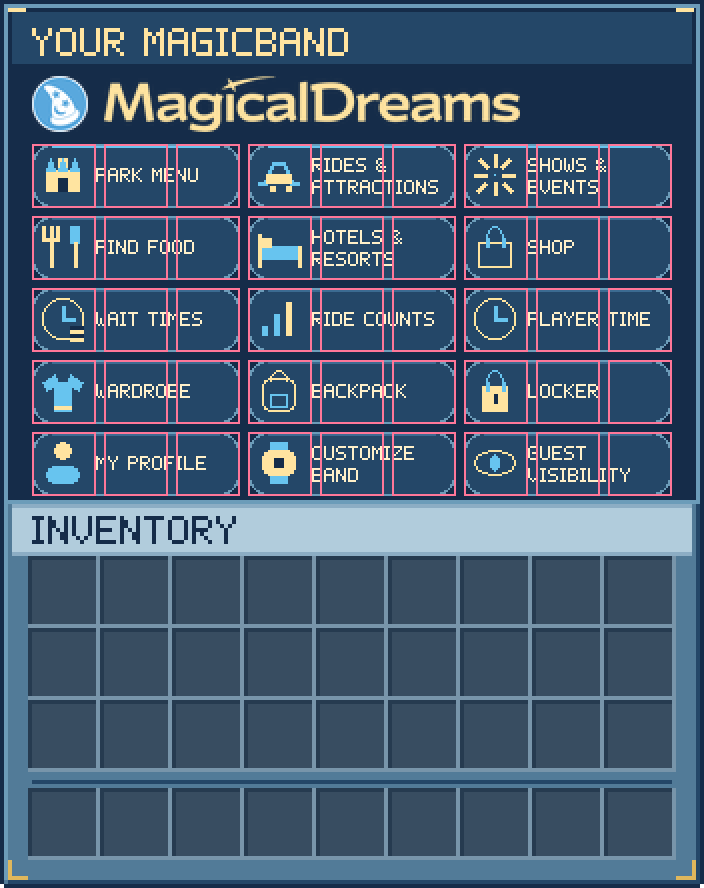
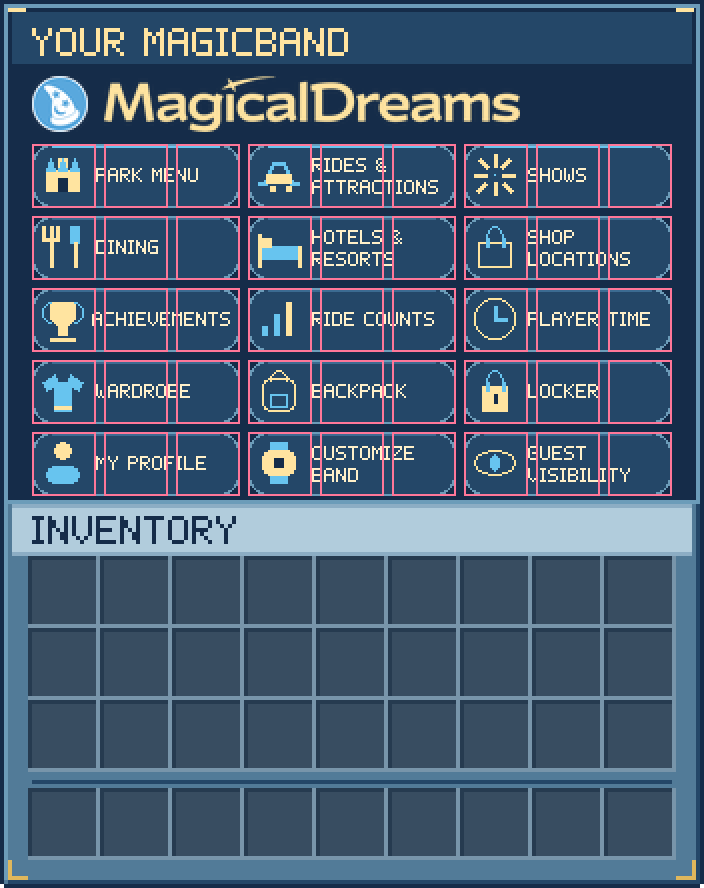
Update MagicBand artwork and require matching v3 menu actions

diff --git a/magicband-ui/draw_magicband.py b/magicband-ui/draw_magicband.py
@@ -9,9 +9,9 @@ from pathlib import Path
 from PIL import Image, ImageDraw
 
 ENTRIES = [
-    ('parks', 'PARK MENU', 13, 9), ('rides', 'RIDES &\nATTRACTIONS', 12, 12), ('shows', 'SHOWS &\nEVENTS', 11, 15),
-    ('food', 'FIND FOOD', 10, 18), ('hotels', 'HOTELS &\nRESORTS', 2, 21), ('shop', 'SHOP', 14, 24),
-    ('waits', 'WAIT TIMES', 23, 27), ('counts', 'RIDE COUNTS', 22, 30), ('time', 'PLAYER TIME', 6, 33),
+    ('parks', 'PARK MENU', 13, 9), ('rides', 'RIDES &\nATTRACTIONS', 12, 12), ('shows', 'SHOWS', 11, 15),
+    ('food', 'DINING', 10, 18), ('hotels', 'HOTELS &\nRESORTS', 2, 21), ('shop', 'SHOP\nLOCATIONS', 14, 24),
+    ('achievements', 'ACHIEVEMENTS', 23, 27), ('counts', 'RIDE COUNTS', 22, 30), ('time', 'PLAYER TIME', 6, 33),
     ('wardrobe', 'WARDROBE', 15, 36), ('backpack', 'BACKPACK', 20, 39), ('locker', 'LOCKER', 24, 42),
     ('profile', 'MY PROFILE', 4, 45), ('customize', 'CUSTOMIZE\nBAND', 19, 48), ('visibility', 'GUEST\nVISIBILITY', 16, 51),
 ]
@@ -93,9 +93,12 @@ def icon(name):
     elif name=='shop':
         d.rectangle((1,4,9,10),outline=c);d.arc((3,0,7,7),180,360,fill=a)
         d.line((3,3,3,5),fill=a);d.line((7,3,7,5),fill=a)
-    elif name in ('waits','time'):
+    elif name=='achievements':
+        d.polygon([(2,1),(8,1),(8,5),(6,7),(4,7),(2,5)],fill=c)
+        d.arc((0,1,4,6),90,270,fill=a);d.arc((6,1,10,6),270,450,fill=a)
+        d.rectangle((4,7,6,9),fill=c);d.line((2,10,8,10),fill=c)
+    elif name=='time':
         d.ellipse((0,0,10,10),outline=c);d.line((5,2,5,5,8,5),fill=a)
-        if name=='waits': d.rectangle((7,7,10,10),fill=P['ink']); d.line((7,8,10,8),fill=c); d.line((7,10,10,10),fill=c)
     elif name=='counts':
         for x,h in [(1,3),(4,6),(7,9)]:d.rectangle((x,10-h,x+1,9),fill=c if x==7 else a)
     elif name=='wardrobe':
@@ -145,7 +148,7 @@ def panel():
         im.alpha_composite(icon(name),(x+5,y+5))
         lines=label.split('\n')
         for i,line in enumerate(lines):
-            end=text(d,(x+32,y+(7 if len(lines)>1 else 12)+i*11),line,P['cream'])
+            end=text(d,(x+(30 if name=='achievements' else 32),y+(7 if len(lines)>1 else 12)+i*11),line,P['cream'])
             assert end <= x+101, (label,end-x)
     return im
 
@@ -181,9 +184,9 @@ def export(root, output):
     pack=Path('Parks RP'); dest=output/pack; assets=dest/'assets'
     metadata=json.loads((root/pack/'pack.mcmeta').read_text())
     caps=metadata.setdefault('mdcore',{}).setdefault('capabilities',[])
-    # The old single-glyph title cannot render this split layout. Never advertise v1.
-    caps[:]=[cap for cap in caps if cap != 'magicaldreams:magicband_menu_v1']
-    if 'magicaldreams:magicband_menu_v2' not in caps: caps.append('magicaldreams:magicband_menu_v2')
+    # Older menus give the achievements slot a different action; require matching semantics.
+    caps[:]=[cap for cap in caps if cap not in ('magicaldreams:magicband_menu_v1','magicaldreams:magicband_menu_v2')]
+    if 'magicaldreams:magicband_menu_v3' not in caps: caps.append('magicaldreams:magicband_menu_v3')
     dest.mkdir(parents=True,exist_ok=True)
     (dest/'pack.mcmeta').write_text(json.dumps(metadata,indent=2,ensure_ascii=False)+'\n')
     image=panel()

diff --git a/magicband-ui/validate_magicband.py b/magicband-ui/validate_magicband.py
@@ -35,8 +35,8 @@ def validate_panel(image, font):
 def validate(root, java=None):
     metadata=json.loads((root/'Parks RP/pack.mcmeta').read_text())
     caps=metadata.get('mdcore',{}).get('capabilities',[])
-    assert 'magicaldreams:magicband_menu_v2' in caps, 'Missing MDCore skin capability'
-    assert 'magicaldreams:magicband_menu_v1' not in caps, 'Split glyphs require the version 2 title sequence'
+    assert 'magicaldreams:magicband_menu_v3' in caps, 'Missing MDCore skin capability'
+    assert not {'magicaldreams:magicband_menu_v1','magicaldreams:magicband_menu_v2'}.intersection(caps), 'Version 3 requires matching button actions'
     assets=root/'Parks RP/assets'
     layout=json.loads((root/'magicband-ui/layout.json').read_text())
     entries=layout['entries']
@@ -70,7 +70,7 @@ def validate(root, java=None):
         menu=java/'src/main/java/us/magicaldreams/parkmanager/magicband/bandGuis'
         prefix='§f'+''.join('\\u%04X'%ord(char) for char in PANEL_SEQUENCE)
         assert f'PANEL_PREFIX = "{prefix}";' in (menu/'MagicBandMenu.java').read_text(), 'Java title sequence and font disagree'
-        assert 'CAPABILITY = "magicaldreams:magicband_menu_v2";' in (menu/'MagicBandMenuRefresh.java').read_text(), 'Java capability and pack disagree'
+        assert 'CAPABILITY = "magicaldreams:magicband_menu_v3";' in (menu/'MagicBandMenuRefresh.java').read_text(), 'Java capability and pack disagree'
     print('PASS: 15 buttons / 45 hit areas, source glyph atlas limits, seamless panel/title alignment, glyph reservation, legacy + modern paper fallback' + (' and Java contract' if java else ''))
 
 if __name__=='__main__':

diff --git a/magicband-ui/README.md b/magicband-ui/README.md
@@ -21,7 +21,7 @@ python3 scripts/build_packs.py
 
 ### Header branding
 
-`branding/hat-circle.svg` and `branding/wordmark.png` preserve the supplied originals. `branding/hat-circle.png` is a transparent 256×256 raster of the SVG, rendered with Sharp. Keeping this raster alongside the original lets routine generation continue with only Pillow. Re-rasterize it if the SVG changes. The generator scales the icon to 28×28 source pixels, crops the wordmark’s transparent padding, and uses its alpha channel to apply the existing warm-gold palette color. The logo group aligns with the left edge of the first button column. Header changes preserve the panel size, split glyphs, and version 2 capability.
+`branding/hat-circle.svg` and `branding/wordmark.png` preserve the supplied originals. `branding/hat-circle.png` is a transparent 256×256 raster of the SVG, rendered with Sharp. Keeping this raster alongside the original lets routine generation continue with only Pillow. Re-rasterize it if the SVG changes. The generator scales the icon to 28×28 source pixels, crops the wordmark’s transparent padding, and uses its alpha channel to apply the existing warm-gold palette color. The logo group aligns with the left edge of the first button column. Header changes preserve the panel size, split glyphs, and version 3 capability.
 
 ## Runtime contract
 
@@ -33,10 +33,12 @@ python3 scripts/build_packs.py
 
 ## Rollout and in-game verification
 
-The Parks pack declares `magicaldreams:magicband_menu_v2` in the `mdcore.capabilities` array of `pack.mcmeta`. MDCore downloads and inspects the assigned ZIP in the background using its existing download policy, verifies its configured SHA-1, and caches capabilities by content hash. There is no pack UUID configuration in ParkManager. Packs without this declaration use the classic menu.
+The Parks pack declares `magicaldreams:magicband_menu_v3` in the `mdcore.capabilities` array of `pack.mcmeta`. MDCore downloads and inspects the assigned ZIP in the background using its existing download policy, verifies its configured SHA-1, and caches capabilities by content hash. There is no pack UUID configuration in ParkManager. Packs without this declaration use the classic menu.
 
-Deploy the matching ParkManager build, then publish/update the Parks pack through MDCore normally. MDCore builds with the capability API already support this fix. Version 2 replaces the oversized single-glyph version 1; mixed plugin/pack versions use the classic menu. Do not advertise the version 1 capability in the split-glyph pack. Old packs, unknown capabilities, pending replacements and inspection failures all use the classic menu. Open MagicBand home screens check asynchronously once per second and switch automatically when support changes, without interrupting navigation to another menu. Initial ZIP inspection may take longer; the classic menu remains usable during that time. A failed inspection is retried after 60 seconds.
+Deploy the matching ParkManager build, then publish/update the Parks pack through MDCore normally. MDCore builds with the capability API already support this fix. Version 3 replaces Wait Times with Achievements and updates the directory labels. Mixed plugin/pack versions use the classic menu so artwork cannot point to the wrong action. Do not advertise earlier MagicBand capability versions. Old packs, unknown capabilities, pending replacements and inspection failures all use the classic menu. Open MagicBand home screens check asynchronously once per second and switch automatically when support changes, without interrupting navigation to another menu. Initial ZIP inspection may take longer; the classic menu remains usable during that time. A failed inspection is retried after 60 seconds.
 
 `[magicband] custom_menu = false` remains an optional visual override. The old `pack_definition_id` key is unused and can be removed from existing configs. No database migration is needed.
 
 In staging, check GUI scale Auto/2/3/4, a long player name and title colors, tooltips across all three thirds of each button, every destination, visibility switching, profile refresh, inventory click/drag cancellation and the classic fallback. Verify older supported clients if the server accepts them. Offline tests validate alignment mathematically, but client rendering and any other enabled packs still require an in-game check.
+
+The home menu uses Dining, Shop Locations, and Shows for the existing destination directories. Achievements is a trophy button with a coming-soon message. Player Time hover text updates while the menu is open. Backpacks have 54 slots; deploy the matching MDCore inventory scope definition as well as ParkManager. Existing 27-slot contents retain their positions.
